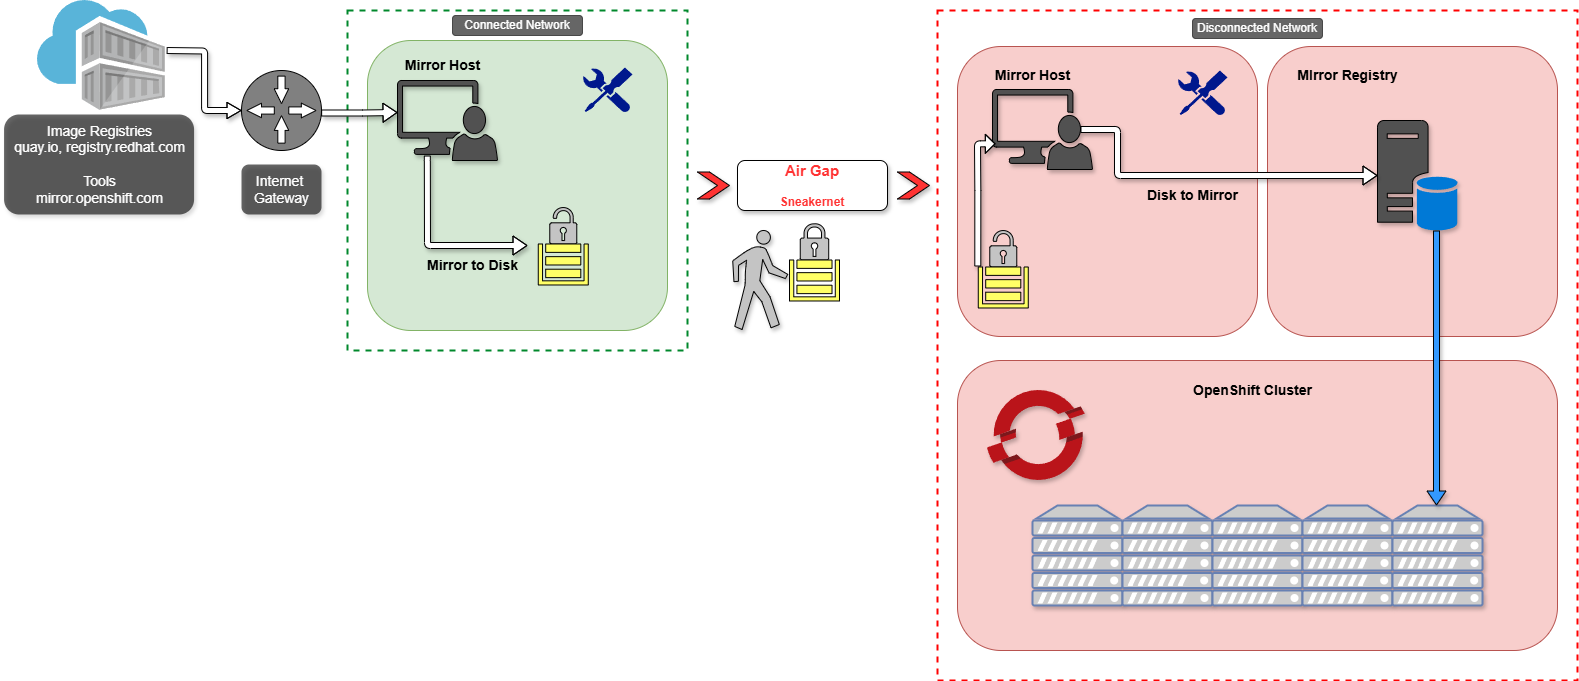
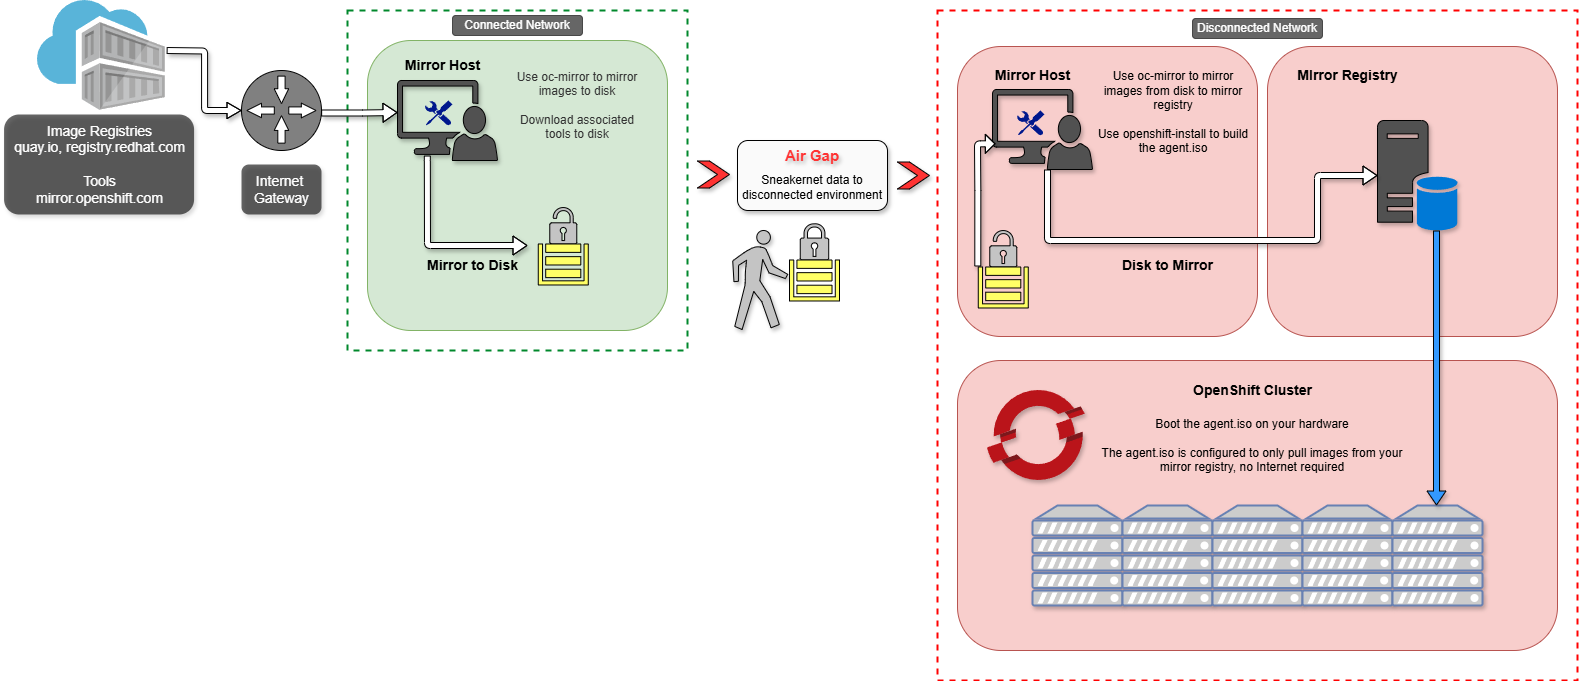
add additional post install docs, update info graphic, remove coverpage for single html

diff --git a/docs/postinstall/tasks.md b/docs/postinstall/tasks.md
@@ -1,0 +1,217 @@
+## Additional Post-Install Tasks
+
+Many of these settings have already been applied if you deployed the cluster with the appropriate customizations but it's good to double check everything. Much of this is regurgitated information from [Kens disconnected-openshift Repo](https://github.com/kenmoini/disconnected-openshift/blob/main/post-install-config/README.md#post-installation-cluster-configuration){:target="_blank"} which is a great resource for additional diconnected install information/configs/tools.
+
+## Cluster-wide CA Certs
+
+[Red Hat Docs](https://docs.redhat.com/en/documentation/openshift_container_platform/4.18/html/security_and_compliance/configuring-certificates#ca-bundle-understanding_updating-ca-bundle){:target="_blank"}
+
+Typically you'll have custom internal Root Certificate Authorities that sign TLS certs for services. If you provided the certificates during installation (your mirror registry for example), you should find them in the `user-ca-bundle` ConfigMap in the `openshift-config` Namespace under the `ca-bundle.crt` key. 
+
+1. Verify that the contents match what you have for your Root CAs
+```bash
+$ oc get cm/user-ca-bundle -n openshift-config -o yaml
+apiVersion: v1
+data:
+  ca-bundle.crt: |
+    -----BEGIN CERTIFICATE-----
+    MIID1jCCAr6gAwIBAgIUZ11....
+    -----END CERTIFICATE-----
+    -----BEGIN CERTIFICATE-----
+    MIID1jCCAr6gAwIBAgIUZ11....
+    -----END CERTIFICATE-----
+kind: ConfigMap
+...
+```
+
+2. If you need to add additional CA's, modify this ConfigMap with the cert data
+```yaml title="user-ca-bundle.yaml"
+---
+apiVersion: v1
+kind: ConfigMap
+metadata:
+  name: user-ca-bundle
+  namespace: openshift-config
+data:
+  ca-bundle.crt: |
+    -----BEGIN CERTIFICATE-----
+    MIID1jCCAr6gAwIBAgIUZ11....
+    -----END CERTIFICATE-----
+    -----BEGIN CERTIFICATE-----
+    MIID1jCCAr6gAwIBAgIUZ11....
+    -----END CERTIFICATE-----
+    -----BEGIN CERTIFICATE-----
+    ... other other cert text ...
+    -----END CERTIFICATE-----
+```
+
+    !!! warning "This may cause nodes to reboot so be prepared"
+```bash
+# Edit from the cmdline and copy/paste contents
+$ oc edit configmaps user-ca-bundle -n openshift-config
+
+# Or
+
+# Apply the yaml file if you created one
+$ oc apply -f user-ca-bundle.yaml
+```
+
+3. With the Root CA Certificates in the cluster-wide ConfigMap, you can now create other ConfigMaps with a special label that will inject all the trusted Root CA certificates into it which makes it easy to be used by applications
+```yaml title="image-additional-trust-bundle.yaml"
+---
+apiVersion: v1
+kind: ConfigMap
+metadata:
+  name: image-additional-trust-bundle
+  namespace: openshift-config
+  labels:
+    # This label will create the .data['ca-bundle.crt'] key with all the system trusted roots, custom and default
+    config.openshift.io/inject-trusted-cabundle: 'true'
+```
+```bash
+# Apply the yaml file
+$ oc apply -f image-additional-trust-bundle.yaml
+```
+
+## Disabling the Insights Operator
+This is probably already set to be unmanaged (disabled) but check it if it's not. Look for `managementState: Unmanaged` under the `spec:` section.
+
+```bash hl_lines="8"
+$ oc get insightsoperator.operator.openshift.io/cluster -o yaml
+apiVersion: operator.openshift.io/v1
+kind: InsightsOperator
+metadata:
+  ...
+spec:
+  logLevel: Normal
+  managementState: Unmanaged
+  operatorLogLevel: Normal
+```
+
+If you need to set it to Unmanaged
+```yaml title="insights-disable.yaml"
+---
+apiVersion: operator.openshift.io/v1
+kind: InsightsOperator
+metadata:
+  name: cluster
+spec:
+  # Change from Managed to Unmanaged
+  managementState: Unmanaged
+```
+```bash
+# Edit from the cmdline and copy/paste contents
+$ oc edit insightsoperator.operator.openshift.io/cluster
+
+# Or
+
+# Apply the yaml file if you created one
+$ oc apply -f insights-disable.yaml
+```
+
+## Image CR and additional Container Registries
+
+The cluster has different mechanisms to control how images are pulled - you can block registries, specifically only registries, set insecure registries, etc. This is all configured in the Image CR.
+
+You also need to set some configuration here for registries you're pulling from that are signed by custom Root CA certificates. These definitions are used for ImageStreams, the OpenShift Update Service, and a couple of other places. Not required for core cluster image pulling functionality but good to configure nonetheless.
+
+To define Root CA certificates, you have to create a ConfigMap. This ConfigMap needs to have keys that are named for the hostname of the registry. If you're using a non-443 port for the registry, append it to the hostname with two dots to separate it, eg `registry.example.com:5000` would be `registry.example.com..5000`.
+
+When configuring the Root CA for the registry that hosts the OpenShift Releases served by the OpenShift Update Service there is an `updateservice-registry` key that is used. This is outlined in the [OSUS Install Doc: Configure access to the secured registry](./osus.md)
+
+```yaml title="image-ca-bundle.yaml"
+# Root CA definitions for use by the config/Image CR
+# Each image registry URL should have a corresponding entry in this ConfigMap
+# with the registry URL as the key and the CA certificate as the value.
+# If there is a port for the registry, use two dots to separate the registry hostname and the port.
+# For example, if the registry URL is registry.example.com:5000, the key should be registry.example.com..5000
+# The updateservice-registry entry is used for the OpenShift Update Service
+---
+apiVersion: v1
+kind: ConfigMap
+metadata:
+  name: image-ca-bundle
+  namespace: openshift-config
+data:
+  # updateservice-registry is for the registry hosting OSUS Releases
+  updateservice-registry: |
+    -----BEGIN CERTIFICATE-----
+    MIIH0DCCBbigAwIBAgIUV...
+    -----END CERTIFICATE-----
+  my-other-registry.example.com: |
+    -----BEGIN CERTIFICATE-----
+    ... cert text here ...
+    -----END CERTIFICATE-----
+  test-registry.example.com..8443: |
+    -----BEGIN CERTIFICATE-----
+    ... cert text here ...
+    -----END CERTIFICATE-----
+```
+```bash
+# Edit from the cmdline and copy/paste contents
+$ oc edit configmaps image-ca-bundle -n openshift-config
+
+# Or
+
+# Apply the yaml file if you created one
+$ oc apply -f image-ca-bundle.yaml
+```
+
+
+With that ConfigMap created, you can now configure the Image CR with it and any other configuration you want
+
+```yaml title="image-config-cr.yaml"
+---
+apiVersion: config.openshift.io/v1
+kind: Image
+metadata:
+  name: cluster
+spec:
+  # additionalTrustedCA is a reference to a ConfigMap containing additional CAs that should be trusted during imagestream import, pod image pull, build image pull, and imageregistry pullthrough.
+  # The namespace for this config map is openshift-config.
+  additionalTrustedCA:
+    name: image-ca-bundle
+  
+  # Optional configuration...
+
+  # allowedRegistriesForImport limits the container image registries that normal users may import images from. Set this list to the registries that you trust to contain valid Docker images and that you want applications to be able to import from.
+  # Users with permission to create Images or ImageStreamMappings via the API are not affected by this policy - typically only administrators or system integrations will have those permissions.
+  allowedRegistriesForImport:
+    - image-registry.openshift-image-registry.svc:5000
+    - my-other-registry.example.com
+    - test-registry.example.com:8443
+
+  registrySources:
+    # allowedRegistries are the only registries permitted for image pull and push actions. All other registries are denied. 
+    # Only one of blockedRegistries or allowedRegistries may be set.
+    allowedRegistries:
+      - image-registry.openshift-image-registry.svc:5000
+      - my-other-registry.example.com
+      - test-registry.example.com:8443
+
+    # blockedRegistries cannot be used for image pull and push actions. All other registries are permitted. 
+    # Only one of BlockedRegistries or AllowedRegistries may be set.
+    blockedRegistries:
+      - docker.io
+
+    # containerRuntimeSearchRegistries are registries that will be searched when pulling images that do not have fully qualified domains in their pull specs.
+    # Registries will be searched in the order provided in the list.
+    # Note: this search list only works with the container runtime, i.e CRI-O. Will NOT work with builds or imagestream imports.
+    containerRuntimeSearchRegistries:
+      - image-registry.openshift-image-registry.svc:5000
+      - test-registry.example.com:8443
+
+    # insecureRegistries are registries which do not have a valid TLS certificates or only support HTTP connections.
+    insecureRegistries:
+      - test-registry.example.com:8443
+```
+
+```bash
+# Edit from the cmdline and copy/paste contents
+$ oc edit image.config.openshift.io cluster
+
+# Or
+
+# Apply the yaml file if you created one
+$ oc apply -f image-config-cr.yaml
+```

diff --git a/docs/postinstall/osus.md b/docs/postinstall/osus.md
@@ -4,6 +4,8 @@
 
 [Red Hat Blog on updating clusters](https://www.redhat.com/en/blog/the-ultimate-guide-to-openshift-release-and-upgrade-process-for-cluster-administrators){:target="_blank"}
 
+[Handy Update tool](https://access.redhat.com/labs/ocpupgradegraph/update_path/){:target="_blank"}
+
 This is kind of a pain but should only need to be set up one time. We essentially have to tell the cluster to look at our registry for graph data and release images like it does when connected to the Internet. Perform these steps only if you mirrored graph data and the `cincinnati-operator` to your mirror registry.
 
 The following steps outline the high-level workflow on how to update a cluster in a disconnected environment using OSUS:
@@ -18,30 +20,30 @@ The following steps outline the high-level workflow on how to update a cluster i
 ### Configure access to the secured registry
   [Red Hat Docs](https://docs.redhat.com/en/documentation/openshift_container_platform/4.17/html/registry/configuring-registry-operator#images-configuration-cas_configuring-registry-operator){:target="_blank"}
 
-  Create a config map in the openshift-config namespace and use its name in AdditionalTrustedCA in the `image.config.openshift.io` custom resource to provide additional CAs that should be trusted when contacting external registries. 
+  Create a configmap in the openshift-config namespace and use its name in AdditionalTrustedCA in the `image.config.openshift.io` custom resource to provide additional CAs that should be trusted when contacting external registries for images. 
 
   1. Grab the CA in pem format for the container registry that the graph-image is in and create a new `configmap` object in the `openshift-config` namespace that defines your registry to be used for the updateservice.
       
       - The OpenShift Update Service Operator needs the config map key name `updateservice-registry` in the registry CA cert.
       
-      - If the registry has the port, such as `registry.example.com:5000`, `:` should be replaced with `..`
-      
       ```bash
+      # Since the OSUS image is on the Quay Mirror Registry I need it's rootCA
       $ cp /opt/quay-data/quay-rootCA/rootCA.pem ca.crt
-      $ oc create configmap registry-config --from-file=registry.example.com..8443=ca.crt --from-file=updateservice-registry=ca.crt -n openshift-config
+
+      $ oc create configmap image-ca-bundle --from-file=updateservice-registry=ca.crt -n openshift-config
       ```
       
     !!! info
-        Here we copied the rootCA of our registry to our current directory and called it `ca.crt`. Then created a configmap called `registry-config` in the openshift-config namespace using that certificate.
+        Here we copied the rootCA of our registry to our current directory and called it `ca.crt`. Then created a configmap called `image-ca-bundle` in the openshift-config namespace using that certificate.
       
-  2. Edit the custom resource and add the config map you just created to the additionalTrustedCA spec.
+  2. Edit the `Image` custom resource and add the configmap you just created to the additionalTrustedCA spec.
       ```bash
       $ oc edit image.config.openshift.io cluster
       ```
       ```yaml
       spec:
         additionalTrustedCA:
-          name: registry-config
+          name: image-ca-bundle
       ```
     - [Red Hat Docs](https://docs.redhat.com/en/documentation/openshift_container_platform/4.17/html/disconnected_environments/updating-a-cluster-in-a-disconnected-environment#images-update-global-pull-secret_updating-disconnected-cluster-osus){:target="_blank"} 
     
@@ -166,11 +168,11 @@ The following steps outline the high-level workflow on how to update a cluster i
       ```bash
       $ NAME=service
       ```
-  3. Configure the registry and repository for the release images as configured in "Mirroring the OpenShift Container Platform image repository", for example, `registry.example.com:8443/v4.17/openshift/release-images`:
+  3. Configure the registry and repository for the release images as configured for example, `registry.example.com:8443/v4.17/openshift/release-images`:
       ```bash
       $ RELEASE_IMAGES=registry.example.com:8443/v4.17/openshift/release-images
       ```  
-  4. Set the local pullspec for the graph data image to the graph data container image created in "Creating the OpenShift Update Service graph data container image", for example, `registry.example.com:8443/v4.17/openshift/graph-image:latest`:
+  4. Set the local pullspec for the graph data image to the graph data container image for example, `registry.example.com:8443/v4.17/openshift/graph-image:latest`:
       ```bash
       $ GRAPH_DATA_IMAGE=registry.example.com:8443/v4.17/openshift/graph-image:latest
       ```

diff --git a/docs/postinstall/resources.md b/docs/postinstall/resources.md
@@ -1,3 +1,10 @@
+## Patch the OperatorHub
+Before importing these catalog sources, it is necessary to disable all default catalog sources with this command (as they will not work in a disconnected environment)
+```bash
+$ oc patch OperatorHub cluster --type json -p '[{"op": "add", "path": "/spec/disableAllDefaultSources", "value": true}]'
+operatorhub.config.openshift.io/cluster patched
+```
+
 ## Cluster Resources
 
 [Red Hat Docs](https://docs.redhat.com/en/documentation/openshift_container_platform/4.18/html/disconnected_environments/mirroring-in-disconnected-environments#oc-mirror-custom-resources-v2_about-installing-oc-mirror-v2){:target="_blank"}
@@ -18,13 +25,6 @@ From your `oc mirror` command, you could have the following files in your workin
         If you have any **ClusterCatalogs** i.e `cc-redhat-operator-index-v4-17.yaml`, they will only work on OpenShift 4.18 or newer. Ignore errors from ClusterCatalogs when applying resources if you are on an older version of OpenShift
 
         This is due to changes in the Operator Lifecycle Manager (OLM) architecture moving from OLM classic to v1 [Red Hat Docs](https://docs.redhat.com/en/documentation/openshift_container_platform/4.18/html/extensions/catalogs){:target="_blank"}
-
-## Patch the OperatorHub
-Before importing these catalog sources, it is necessary to disable all default catalog sources with this command (as they will not work in a disconnected environment)
-```bash
-$ oc patch OperatorHub cluster --type json -p '[{"op": "add", "path": "/spec/disableAllDefaultSources", "value": true}]'
-operatorhub.config.openshift.io/cluster patched
-```
 
 ## Configure the cluster to use the resources you mirrored
 

diff --git a/docs/index.md b/docs/index.md
@@ -3,12 +3,12 @@ hide:
   #- navigation
   - toc
 ---
-# OpenShift in a Disconnected Environment: Streamlined
-This documentions purpose is for consolidating information to stand up a OpenShift v4.12 and later cluster, either HA or SNO, in a disconnected environment. 
+# Installing OpenShift in a Disconnected/Air-Gapped Environment: Streamlined
+This documentions purpose is for consolidating information to stand up a OpenShift v4.12 and later cluster in a disconnected/air-gap environment using the agent-based installer. 
 
 This in not a one-size fits all, this is not specific to any team/org, this is rough and simple to at least put the important things to know in one centralized document. 
 
-Relevant Red Hat docs/articles will be linked in each section if applicable.
+Relevant docs/articles will be linked in each section if applicable.
 
 ---
 

diff --git a/docs/release.md b/docs/release.md
@@ -20,11 +20,11 @@ Version: GITHUB_RELEASE
     - [x] Applying cluster resources
     - [x] NTP
     - [x] OSUS
+    - [x] Additional tasks
 - [ ] Optional configs
     - [x] core passwd
     - [x] registry
-    - [ ] Additional cluster configs
-- [ ] Operations (shutdown, auth, etc)
+    - [ ] Additional cluster configs?
 - [x] Example configs
     - [x] install-config.yaml
     - [x] agent-config.yaml

diff --git a/docs/connected/mirroring.md b/docs/connected/mirroring.md
@@ -145,6 +145,6 @@ Place these files on a disk and transfer them to your disconnected network
 - **oc-mirror**
 - **butane**
 - **mirror-registry** (if using)
-- **openshift-install** (if you extracted the binary)
+- **openshift-install**
 
 ---
